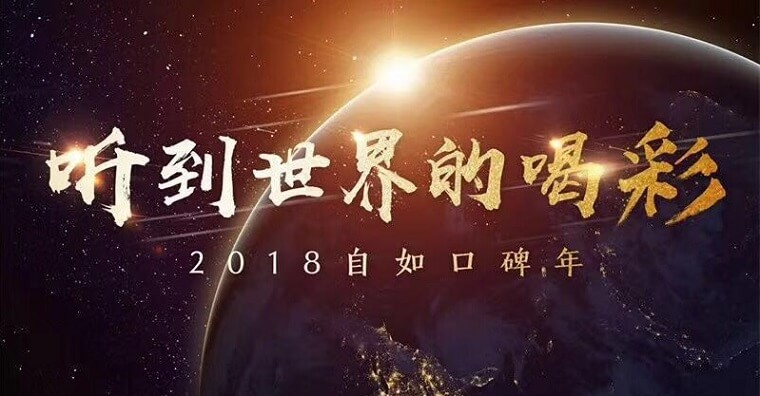
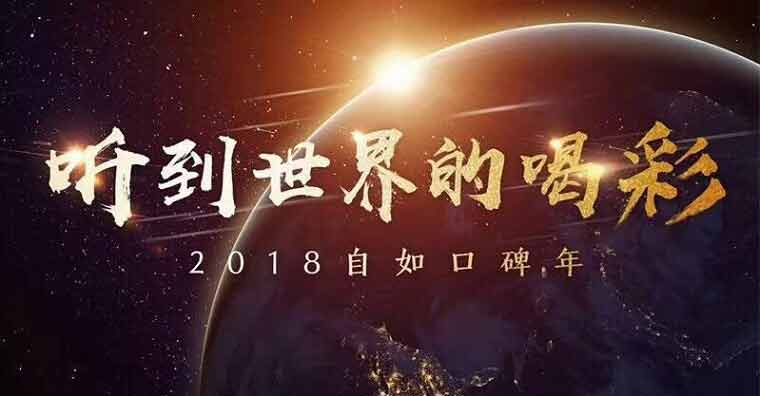
:rocket:优化图片

diff --git a/_posts/2018/04/php-code-sniffer.md b/_posts/2018/04/php-code-sniffer.md
@@ -9,7 +9,7 @@ categories:
 
 当你看到一个代码乱七八糟的项目时，心里肯定很各种  /_ \，代码阅读性特差，又不易维护。优秀的项目应该是看起来像是出自一个人之手，这就需要一套代码规范来约束，当然还必须要求项目成员落实这套规范。
 
-![预览图](https://img.fanhaobai.com/2018/04/php-code-sniffer/4b3745ff-6a6a-4381-9b25-5bb2a8033c3f.png)<!--more-->
+![预览图](https://img.fanhaobai.com/2018/04/php-code-sniffer/4b3745ff-6a6a-4381-9b25-5bb2a8033c3f.jpg)<!--more-->
 
 这里推荐一款自动化的 PHP 代码规范检查工具 —— [PHP_CodeSniffer](https://github.com/squizlabs/PHP_CodeSniffer)，当 CodeSniffer 结合 PhpStrom 和 Git 时，自动化代码规范极为方便可靠。
 
